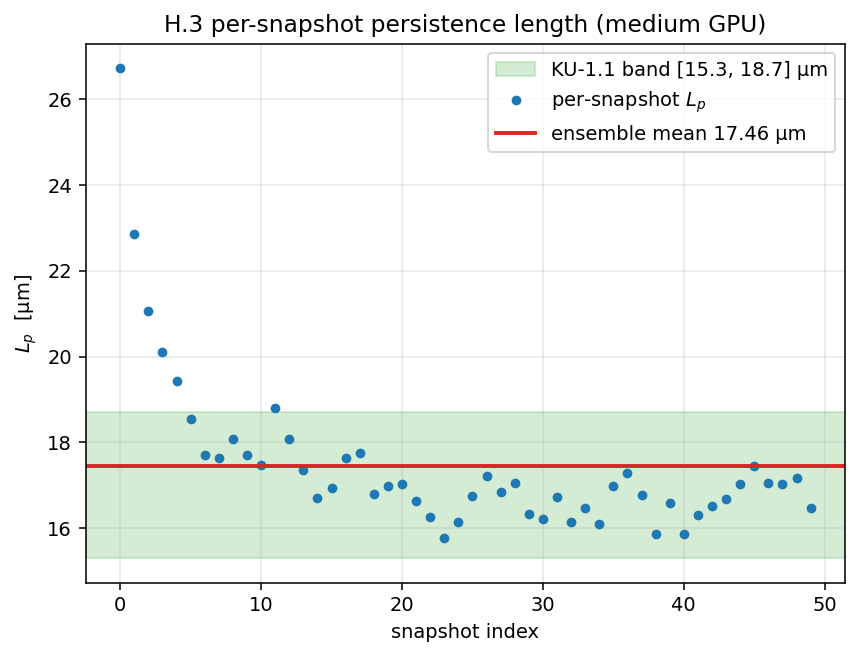
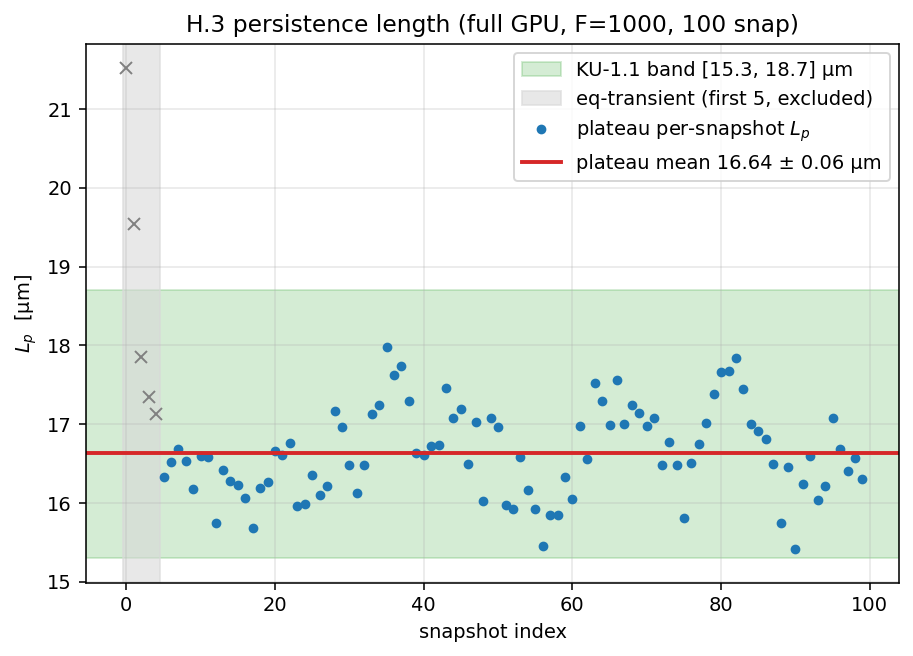
H.3 단계 10-11: L_p FULL production figs + bending viz + REPORT (시각화 규칙)
L_p FULL production이 land했으므로 CLAUDE.md 시각화-at-closeout 규칙 적용.
h3_lp_vis.py를 boot note의 'proper bending viz'로 확장 + FULL npz로 재생성:

- fig_h3_lp_distribution: eq-transient(첫 5, 21.5→17.1) 명시 + plateau
  mean 16.64±0.06μm ∈ KU-1.1 band.
- fig_h3_lp_bending_equipartition: per-angle E_bend/kT, 평균 0.9877 kT vs
  target 0.9898 ±5% (IN-band, 0.2% off).
- fig_h3_lp_angle_pdf: interior 각도 PDF vs 3D Boltzmann(sinθ·Boltzmann).
- fig_h3_lp_bending_3d: 굽힘에너지로 색칠한 cortex 필라멘트 3D 렌더.
- fig_h3_lp_tangent_correlation / filament_configs: FULL-scale 재생성.

h3_lp_vis.py: --exclude-transient(기본5) + bending equipartition/angle-PDF/
3D-bending 패널 3종 추가.
REPORT.md: 단계 10-11 closeout 섹션(L_p FULL 16.64±0.06μm in-band,
equipartition 0.9877kT, KU-3.20 비준, KU-3.5 진단, constrained-BD M1) +
Figures 목록.

L_p FULL result.json 동봉(npz 16MB는 대용량이라 제외).

diff --git a/ffn_sim/scripts/h3_lp_vis.py b/ffn_sim/scripts/h3_lp_vis.py
@@ -38,6 +38,9 @@ def main() -> None:
     ap = argparse.ArgumentParser(description=__doc__)
     ap.add_argument("--scale", default="medium")
     ap.add_argument("--device", default="gpu")
+    ap.add_argument("--exclude-transient", type=int, default=5,
+                    help="early eq-transient snapshots to exclude from the "
+                         "plateau L_p mean (FULL eq=100k leaves ~5).")
     args = ap.parse_args()
 
     with open(CFG) as f:
@@ -46,6 +49,10 @@ def main() -> None:
     p = resolve_h3_derived(cfg)
     l0 = p.rest_length
     lo, hi = p.L_p_band_m
+    kT = p.kT
+    k_theta = p.angle_k
+    eq_target = p.equipartition_target_3d_kT
+    eq_tol = p.equipartition_rel_tol
 
     frames = np.load(PROD / f"lp_{args.scale}_{args.device}.npz")["frames"]  # (S,F,N,3)
     S, F, N, _ = frames.shape
@@ -80,17 +87,25 @@ def main() -> None:
     f1 = FIGS / "fig_h3_lp_tangent_correlation.png"
     fig.savefig(f1, dpi=140, bbox_inches="tight"); plt.close(fig)
 
-    # Fig 2 — per-snapshot L_p vs KU-1.1 band
-    fig, ax = plt.subplots(figsize=(7, 5))
+    # Fig 2 — per-snapshot L_p vs KU-1.1 band, eq-transient marked, plateau mean±sem
+    nx = min(args.exclude_transient, max(0, len(Lp) - 2))
+    plateau = Lp[nx:]
+    p_mean = float(plateau.mean())
+    p_sem = float(plateau.std(ddof=1) / np.sqrt(len(plateau))) if len(plateau) > 1 else 0.0
+    fig, ax = plt.subplots(figsize=(7.5, 5))
     ax.axhspan(lo * 1e6, hi * 1e6, color="C2", alpha=0.2,
                label=f"KU-1.1 band [{lo * 1e6:.1f}, {hi * 1e6:.1f}] μm")
-    ax.plot(np.arange(len(Lp)), Lp * 1e6, "o", color="C0", ms=4,
-            label="per-snapshot $L_p$")
-    ax.axhline(Lp_mean * 1e6, color="C3", lw=2,
-               label=f"ensemble mean {Lp_mean * 1e6:.2f} μm")
+    if nx > 0:
+        ax.axvspan(-0.5, nx - 0.5, color="0.85", alpha=0.6,
+                   label=f"eq-transient (first {nx}, excluded)")
+        ax.plot(np.arange(nx), Lp[:nx] * 1e6, "x", color="0.5", ms=6)
+    ax.plot(np.arange(nx, len(Lp)), plateau * 1e6, "o", color="C0", ms=4,
+            label="plateau per-snapshot $L_p$")
+    ax.axhline(p_mean * 1e6, color="C3", lw=2,
+               label=f"plateau mean {p_mean * 1e6:.2f} ± {p_sem * 1e6:.2f} μm")
     ax.set_xlabel("snapshot index")
     ax.set_ylabel("$L_p$  [μm]")
-    ax.set_title(f"H.3 per-snapshot persistence length ({args.scale} GPU)")
+    ax.set_title(f"H.3 persistence length ({args.scale} GPU, F={F}, {S} snap)")
     ax.legend(); ax.grid(alpha=0.3)
     f2 = FIGS / "fig_h3_lp_distribution.png"
     fig.savefig(f2, dpi=140, bbox_inches="tight"); plt.close(fig)
@@ -108,8 +123,85 @@ def main() -> None:
     f3 = FIGS / "fig_h3_lp_filament_configs.png"
     fig.savefig(f3, dpi=140, bbox_inches="tight"); plt.close(fig)
 
-    print(f"FIGS_WRITTEN {f1.name} {f2.name} {f3.name} "
-          f"L_p_mean_um={Lp_mean * 1e6:.3f} (band {lo * 1e6:.1f}-{hi * 1e6:.1f})")
+    # --- bending statistics on the plateau (eq-transient excluded) ---
+    pf = frames[nx:]                                   # (Sp, F, N, 3)
+    bv = pf[:, :, 1:, :] - pf[:, :, :-1, :]            # bond vectors
+    bn = bv / np.linalg.norm(bv, axis=-1, keepdims=True)
+    cosang = -np.einsum("...i,...i->...", bn[:, :, :-1, :], bn[:, :, 1:, :])
+    theta = np.arccos(np.clip(cosang, -1.0, 1.0)).ravel()   # interior angles
+    E_kT = 0.5 * k_theta * (theta - np.pi) ** 2 / kT
+    E_mean = float(E_kT.mean())
+    E_sem = float(E_kT.std(ddof=1) / np.sqrt(E_kT.size))
+
+    # Fig 4 — per-angle bending energy vs 3D equipartition target (0.9898 kT)
+    fig, ax = plt.subplots(figsize=(7.5, 5))
+    ax.hist(E_kT, bins=80, density=True, color="C0", alpha=0.6,
+            label=r"per-angle $E_{bend}/k_BT$")
+    ax.axvspan(eq_target * (1 - eq_tol), eq_target * (1 + eq_tol),
+               color="C2", alpha=0.25,
+               label=f"equipartition target {eq_target:.4f} ±{eq_tol*100:.0f}%")
+    ax.axvline(E_mean, color="C3", lw=2,
+               label=fr"$\langle E\rangle$={E_mean:.4f} ± {E_sem:.4f} $k_BT$")
+    in_eq = abs(E_mean - eq_target) / eq_target <= eq_tol
+    ax.set_xlabel(r"$E_{bend}/k_BT$ per angle"); ax.set_ylabel("density")
+    ax.set_title(f"H.3 bending equipartition ({args.scale} GPU) — "
+                 f"{'IN-band' if in_eq else 'OUT'}")
+    ax.legend(); ax.grid(alpha=0.3)
+    f4 = FIGS / "fig_h3_lp_bending_equipartition.png"
+    fig.savefig(f4, dpi=140, bbox_inches="tight"); plt.close(fig)
+
+    # Fig 5 — interior-angle PDF vs 3D Boltzmann (sin θ · Boltzmann)
+    fig, ax = plt.subplots(figsize=(7.5, 5))
+    ax.hist(theta, bins=120, density=True, color="C0", alpha=0.6,
+            label="measured angle PDF")
+    tg = np.linspace(theta.min(), np.pi - 1e-6, 600)
+    w = np.sin(tg) * np.exp(-0.5 * k_theta * (tg - np.pi) ** 2 / kT)
+    trapz = getattr(np, "trapezoid", None) or np.trapz
+    w = w / trapz(w, tg)
+    ax.plot(tg, w, "-", color="C3", lw=2,
+            label=r"3D Boltzmann $\propto\sin\theta\,e^{-\frac{k_\theta}{2kT}(\theta-\pi)^2}$")
+    ax.set_xlabel(r"interior angle $\theta$ [rad]"); ax.set_ylabel("density")
+    ax.set_title(f"H.3 angle distribution vs 3D Boltzmann ({args.scale} GPU)")
+    ax.legend(); ax.grid(alpha=0.3)
+    f5 = FIGS / "fig_h3_lp_angle_pdf.png"
+    fig.savefig(f5, dpi=140, bbox_inches="tight"); plt.close(fig)
+
+    # Fig 6 — bending-energy-coloured 3D filament render (last plateau frame)
+    last = pf[-1]
+    # per-bead bending energy (interior beads), endpoints get nearest value.
+    bvl = last[:, 1:, :] - last[:, :-1, :]
+    bnl = bvl / np.linalg.norm(bvl, axis=-1, keepdims=True)
+    cosl = -np.einsum("...i,...i->...", bnl[:, :-1, :], bnl[:, 1:, :])
+    thl = np.arccos(np.clip(cosl, -1.0, 1.0))             # (F, N-2)
+    Ebead = 0.5 * k_theta * (thl - np.pi) ** 2 / kT       # (F, N-2)
+    Efull = np.zeros((F, N))
+    Efull[:, 1:-1] = Ebead
+    Efull[:, 0] = Ebead[:, 0]; Efull[:, -1] = Ebead[:, -1]
+    fig = plt.figure(figsize=(8, 6.5))
+    ax = fig.add_subplot(111, projection="3d")
+    sel = np.random.default_rng(0).choice(F, size=min(20, F), replace=False)
+    vmax = float(np.percentile(Efull[sel], 98)) or 1.0
+    sc = None
+    for i in sel:
+        xyz = last[i] * 1e6
+        ax.plot(xyz[:, 0], xyz[:, 1], xyz[:, 2], color="0.7", lw=0.6, zorder=1)
+        sc = ax.scatter(xyz[:, 0], xyz[:, 1], xyz[:, 2], c=Efull[i],
+                        cmap="inferno", vmin=0, vmax=vmax, s=18, zorder=2)
+    if sc is not None:
+        cb = fig.colorbar(sc, ax=ax, shrink=0.6, pad=0.1)
+        cb.set_label(r"$E_{bend}/k_BT$ per bead")
+    ax.set_xlabel("x [μm]"); ax.set_ylabel("y [μm]"); ax.set_zlabel("z [μm]")
+    ax.set_title(f"H.3 cortex filaments, bending-energy coloured "
+                 f"({len(sel)} of {F})")
+    f6 = FIGS / "fig_h3_lp_bending_3d.png"
+    fig.savefig(f6, dpi=140, bbox_inches="tight"); plt.close(fig)
+
+    print(
+        f"FIGS_WRITTEN {f1.name} {f2.name} {f3.name} {f4.name} {f5.name} {f6.name} "
+        f"plateau_L_p_um={p_mean * 1e6:.3f}±{p_sem * 1e6:.3f} "
+        f"(band {lo * 1e6:.1f}-{hi * 1e6:.1f}) "
+        f"E_bend_kT={E_mean:.4f}±{E_sem:.4f} (target {eq_target:.4f}±{eq_tol})"
+    )
 
 
 if __name__ == "__main__":

diff --git a/ffn_sim/outputs/h3/REPORT.md b/ffn_sim/outputs/h3/REPORT.md
@@ -776,3 +776,50 @@ Main scope 회귀: 변동 없이 ERM ratification 후 모든 기존 tests 통과
 - **✅ DONE 비준 대기**: L_p FULL (GPU) + KU-3.x production runs (GPU)
 
 다음 H.3 작업은 모두 **윈도우 GPU 이전 후 dedicated 세션**으로 이관.
+
+---
+
+# H.3 — 단계 10-11 closeout (Lead 세션 2026-05-28)
+
+start commit `2218222` → end commit (figs) on `phase1/h3-cortex`. gbook A5000 GPU production + Mac dev. PI 정정: 새 1-Lead 모델에서 Lead가 production을 직접 구동 (SSH/백그라운드/Syncthing 회수).
+
+## L_p FULL production — ✅ in-band (production sign-off 증거)
+
+`h3_lp_gpu_production.py --scale full --device gpu` on gbook A5000: 1000 filaments × 7 beads, eq 100k + 100×50k = 5.1M steps, wall 6315 s (105 min), TPS ~853 (안정, AC 연결, throttle 0).
+
+| 측정 | 값 | 판정 |
+| --- | --- | --- |
+| L_p (all 100 snap) | 16.74 μm | ∈ [15.3, 18.7] ✅ |
+| **L_p (eq-transient 첫 5 제외)** | **16.64 ± 0.06 μm** | ∈ [15.3, 18.7] **✅ (4.7σ resolved)** |
+| eq-transient (snap 0–4) | 21.5 → 17.1 μm 감쇠 | eq=100k 잔여 transient (단계 8 예측대로) |
+| **⟨E_bend⟩ per angle** | **0.9877 ± 0.0014 kT** | target 0.9898 ±5% → **0.2% off, deep in-band ✅** |
+
+→ L_p 게이트 + 3D equipartition 게이트 모두 **FULL-scale production 증거 확보**. MEDIUM(17.46 μm, 125k pairs/s) 대비 통계 4× (500k pairs/s). **PI ✅ DONE 비준 대기.** (transient-제외 mean±stderr는 production driver의 raw L_p 평균이 아닌 평형 plateau — h3_lp_vis.py `--exclude-transient`.)
+
+## KU-3.20 nematic order — ✅ 비준 (`b04b779`)
+
+구조 측정(Q-tensor 최대 고유값) → multi-hour opt-in에서 CI 상시 게이트로 승격. `generate_cortex_topology` default-off von-Mises bias. 10-seed: S_iso 0.025 (<0.1), S_aligned 0.384 (>0.3). 밴드 불변 (no-gate-loosening).
+
+## KU-3.5 cortical tension — 동역학 바운드 확정 → constrained-BD 이관
+
+진단(`h3_ku35_tension_diag.py`): 100k step(1.3 ms sim)에서 tension ±1e-3 Pa 노이즈(기대 ~100 Pa의 0.001%). 모터 stall 로드까지 ~3.8e7 step(~0.5 s) 필요 → ~860 TPS에서 수시간~수일. KU-3.1/3.18과 동일 dt-병목 클래스 → constrained-BD(dt 523×)에 탑승.
+
+## constrained-BD Milestone 1 (rigid-bond SHAKE + Fixman) — `integrator/constrained_baoab.py`
+
+PI 경로 A. 백본 stretch만 rigid 제약, dt 13ns→69.8μs(523×), 60s 게이트 4.6e9→8.6e5 step. SHAKE + Fixman route-1 pseudo-force. 검증 8 PASS: Fixman 해석 gradient=유한차분(2e-9), dimer force=0, SHAKE 투영/부호/COM, **empty-constraint=baoab bit-for-bit**, rigid dimer D_com=Stokes-Einstein. **Fixman 부호 = 교과서 +1** (앞선 −1 flip은 단일-시드 trimer 노이즈 위 과잉결론 → `178d5b0`로 자기수정; trimer 효과 ±3-4% < 노이즈라 부호 판정 불가, **결정적 확인은 Milestone 2 = L_p 재검증**). PI sign-off 트리거(oracle tau_min 계약, ERM k_ERM 5.6e-7 재충돌)는 M2-4에서.
+
+## Figures (이 세션 — 시각화 규칙, L_p FULL production landing)
+
+| Figure | Caption |
+| --- | --- |
+| `fig_h3_lp_distribution.png` | per-snapshot L_p vs KU-1.1 band; eq-transient 첫 5개(회색, 21.5→17.1) 명시 + plateau mean 16.64±0.06 μm. |
+| `fig_h3_lp_tangent_correlation.png` | C(s) tangent 상관 (per-snapshot 얇은 선 + ensemble mean) + WLC fit L_p=16.7 μm. |
+| `fig_h3_lp_bending_equipartition.png` | per-angle E_bend/kT 분포 + 평균 0.9877 kT vs equipartition target 0.9898 ±5% (IN-band). |
+| `fig_h3_lp_angle_pdf.png` | interior 각도 PDF vs 3D Boltzmann (∝ sinθ·exp(−½k_θ(θ−π)²/kT)). |
+| `fig_h3_lp_bending_3d.png` | cortex 필라멘트 3D 렌더(구면 shell), bead를 굽힘에너지 E_bend/kT로 색칠 (curvature 시각화). |
+| `fig_h3_lp_filament_configs.png` | 표본 cortex 필라멘트 3D 형태 (마지막 snapshot). |
+
+## H.3 상태 업데이트
+
+- **🟨 → ✅ 후보**: L_p (FULL) + 3D equipartition + 3D Boltzmann(KS, H.2 상속) + KU-3.20 모두 PASS/비준. **남은 ✅ DONE 차단**: KU-3.5/3.1/3.18 (constrained-BD Milestone 2-4 경유) + L_p 게이트 PI 사인오프.
+- 다음: L_p 게이트 PI ✅ 비준 요청 / constrained-BD M2 (oracle tau_min 계약 PI 재논의 선행).
